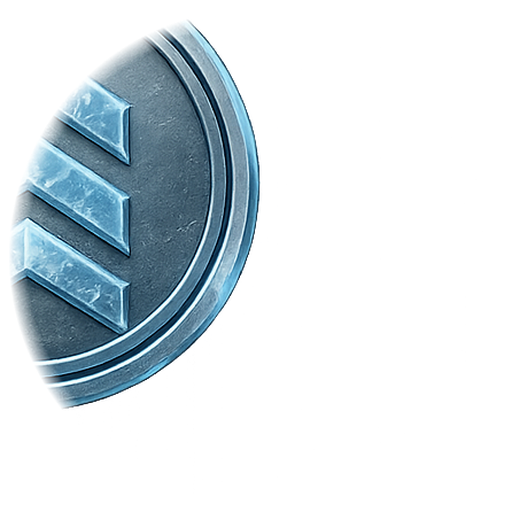
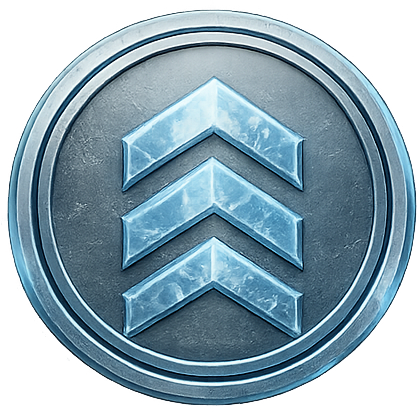
fix: prestige badges + tank visibility behind bottom HUD
JJ feedback from live test:
  1. 'Bronze prestige badge not showing correctly, seems consistent
     issue everywhere' — confirmed; the deployed badge files were
     rotated/cropped 3D renders showing only ~half the medal at a
     side angle. The proper centered round versions exist in
     Assets/<Tier>Badge_Main.png. Swapped all 5 (Bronze, Silver,
     Gold, Platinum, Diamond) into client/public/assets/images/badges/.

  2. 'Terrain damage causes the tank to go missing... shall we
     show the buttons with a higher opacity so you can see through
     them for the tank?' — yes. The mobile bottom-controls strip
     was rgba(14,18,9,0.92) — 92% opaque, fully occluding the
     playfield underneath. Same on desktop control bar at 0.95.

     Replaced both with a top-anchored linear gradient:
       linear-gradient(to top, rgba(14,18,9,0.78) 60%, transparent 100%)
     The strip blends into the scene at its top edge rather than
     hard-cutting, and the buttons themselves remain legible against
     the 78% scrim under the controls. Tank now reads through the
     gradient region when terrain drops it below the fold. Same fix
     applied to desktop control bar at 0.82.

diff --git a/client/src/screens/battle/BattleHUD.js b/client/src/screens/battle/BattleHUD.js
@@ -545,13 +545,19 @@ function BattleHUD({ bridge, gameState, wager, turnTimer, onLeaveMatch, onForfei
           />
         </div>
 
-        {/* BOTTOM CONTROLS */}
+        {/* BOTTOM CONTROLS — semi-transparent so the playfield (and
+            specifically the tank when terrain has been chewed away
+            beneath it) stays visible through the strip. JJ feedback:
+            tank disappearing behind opaque bottom bar was disorienting.
+            Top-edge gradient blends the strip into the scene rather
+            than hard-cutting, while a subtle solid scrim under the
+            controls keeps the buttons themselves legible. */}
         <div style={{
           marginTop: 'auto',
           padding: '8px 10px',
           paddingBottom: 'max(8px, env(safe-area-inset-bottom))',
-          background: 'rgba(14,18,9,0.92)',
-          borderTop: '1px solid rgba(61,74,47,0.5)',
+          background: 'linear-gradient(to top, rgba(14,18,9,0.78) 60%, rgba(14,18,9,0.0) 100%)',
+          borderTop: '1px solid rgba(61,74,47,0.35)',
           pointerEvents: 'auto',
           opacity: isPlayerTurn ? 1 : 0.08,
           transition: 'opacity 0.3s',
@@ -711,10 +717,12 @@ function BattleHUD({ bridge, gameState, wager, turnTimer, onLeaveMatch, onForfei
         </div>
       </div>
 
-      {/* ── CONTROL BAR ── */}
+      {/* ── CONTROL BAR ── (desktop)
+          Same scrim treatment as mobile bottom — gradient top so the
+          playfield bleeds in rather than hard-cutting. */}
       <div style={{
-        background: 'rgba(14,18,9,0.95)',
-        borderTop: '1px solid rgba(61,74,47,0.7)',
+        background: 'linear-gradient(to top, rgba(14,18,9,0.82) 60%, rgba(14,18,9,0.0) 100%)',
+        borderTop: '1px solid rgba(61,74,47,0.45)',
         padding: '10px 14px',
         flexShrink: 0,
         pointerEvents: 'auto',
